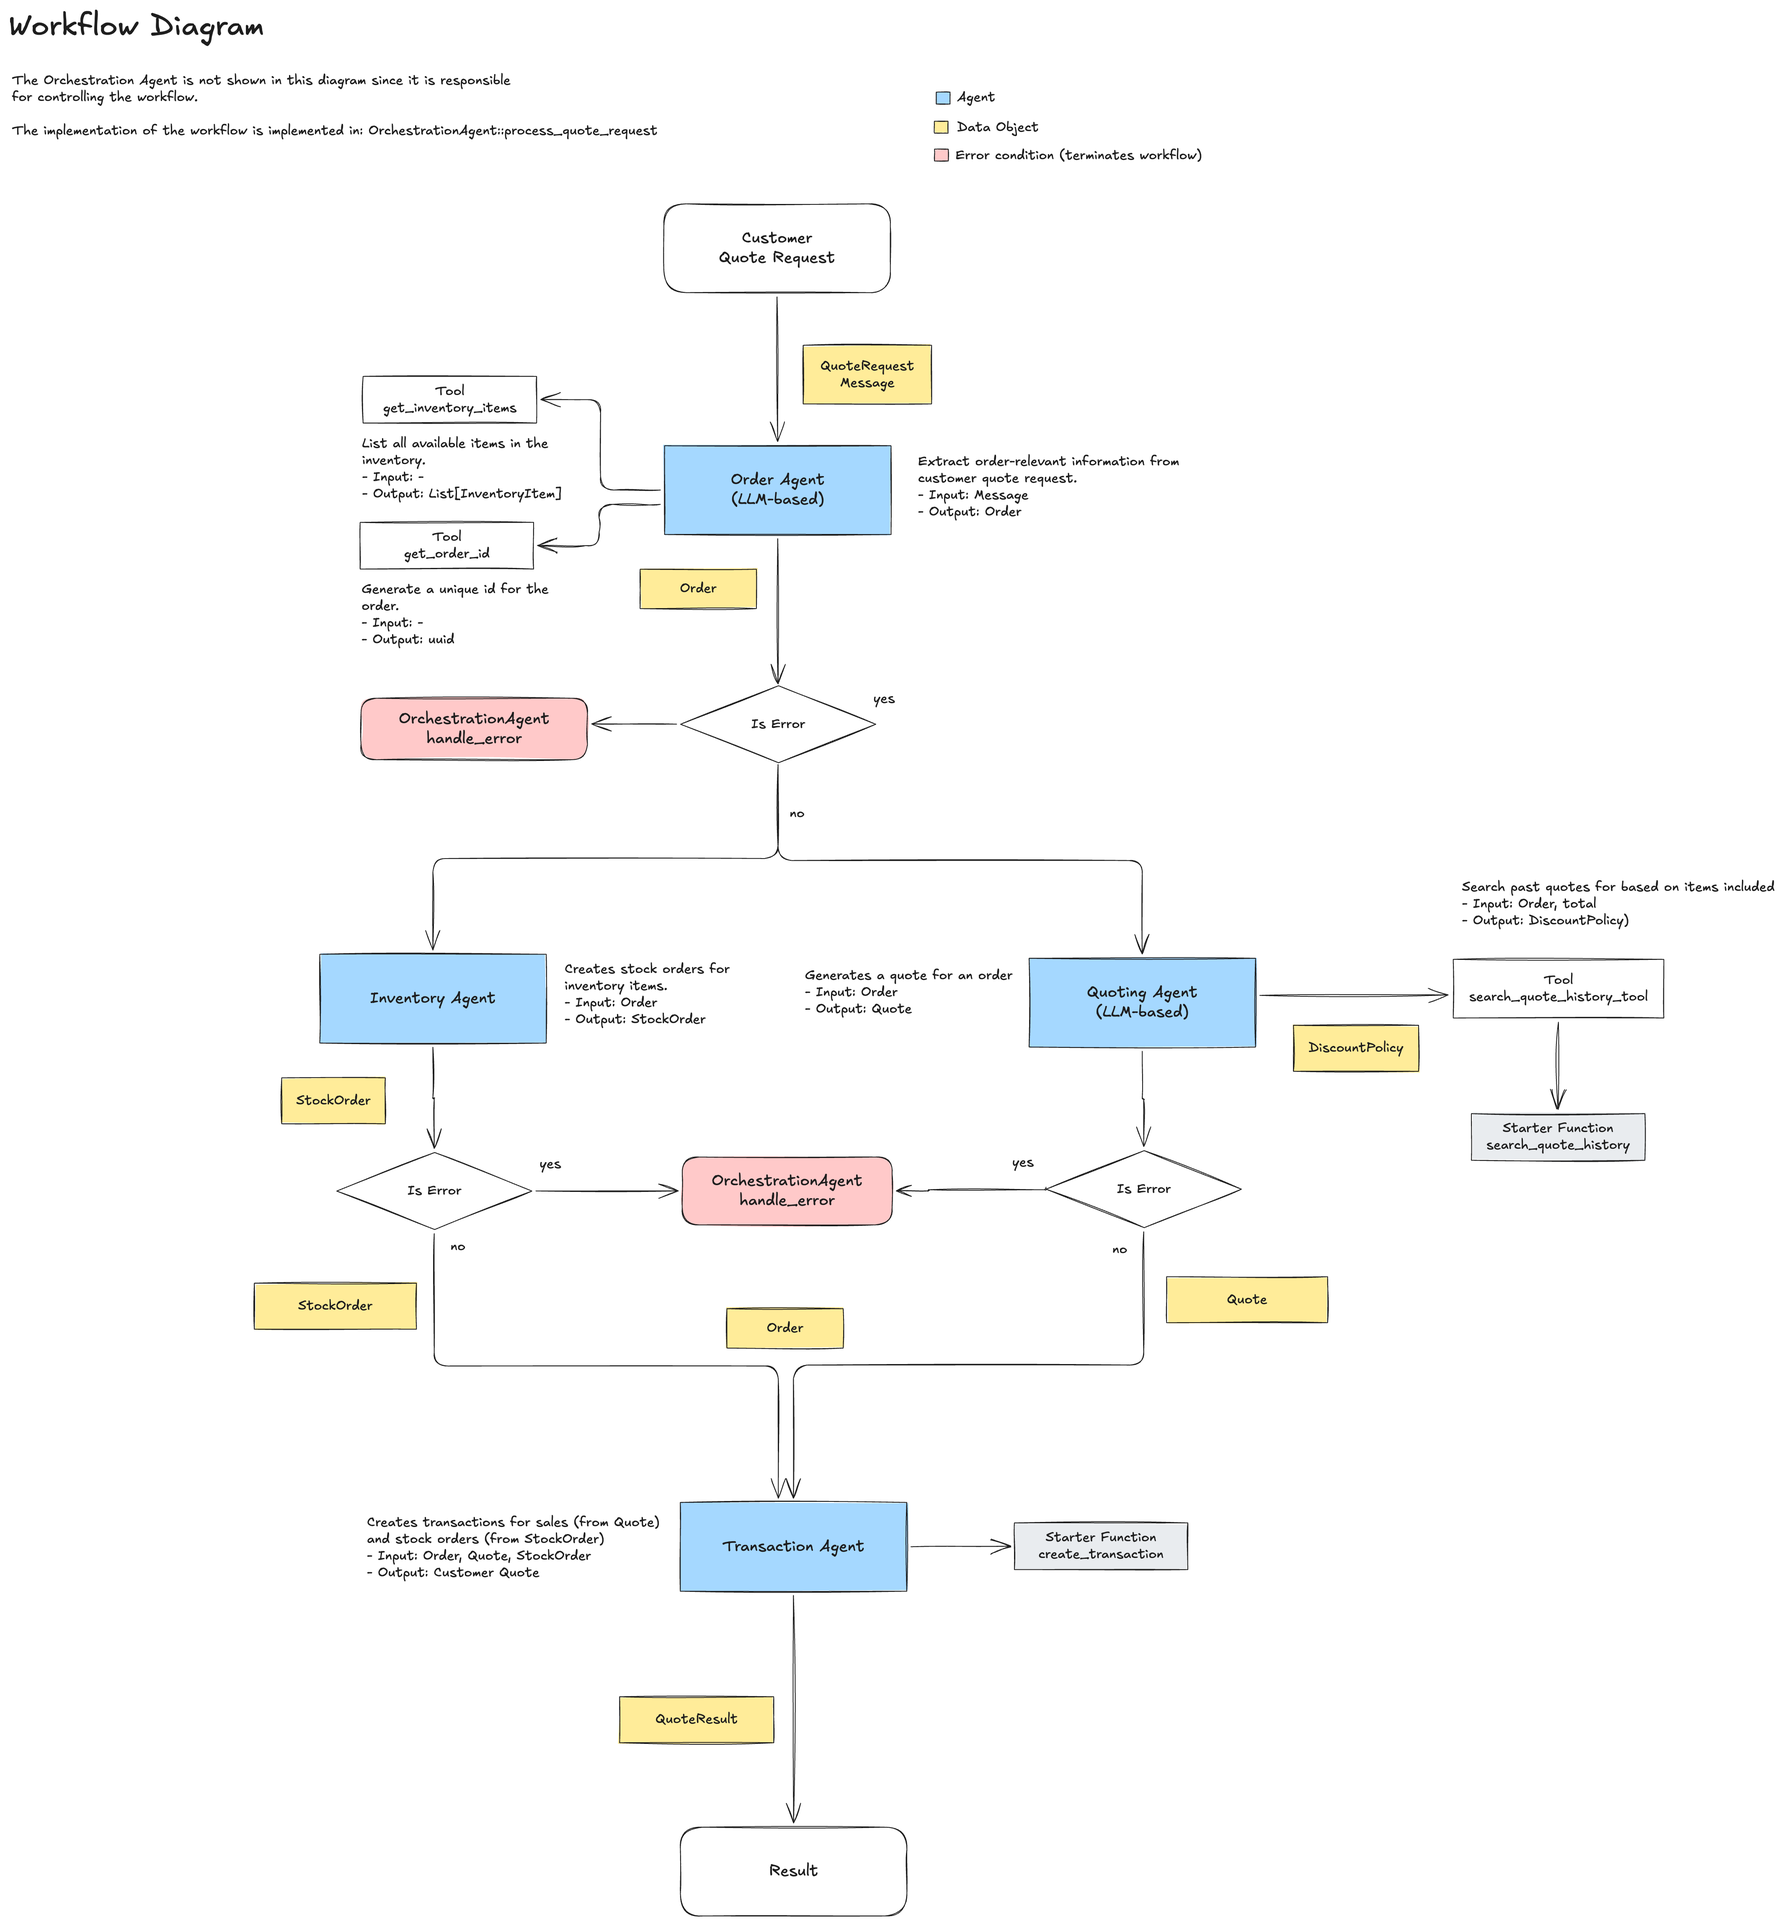
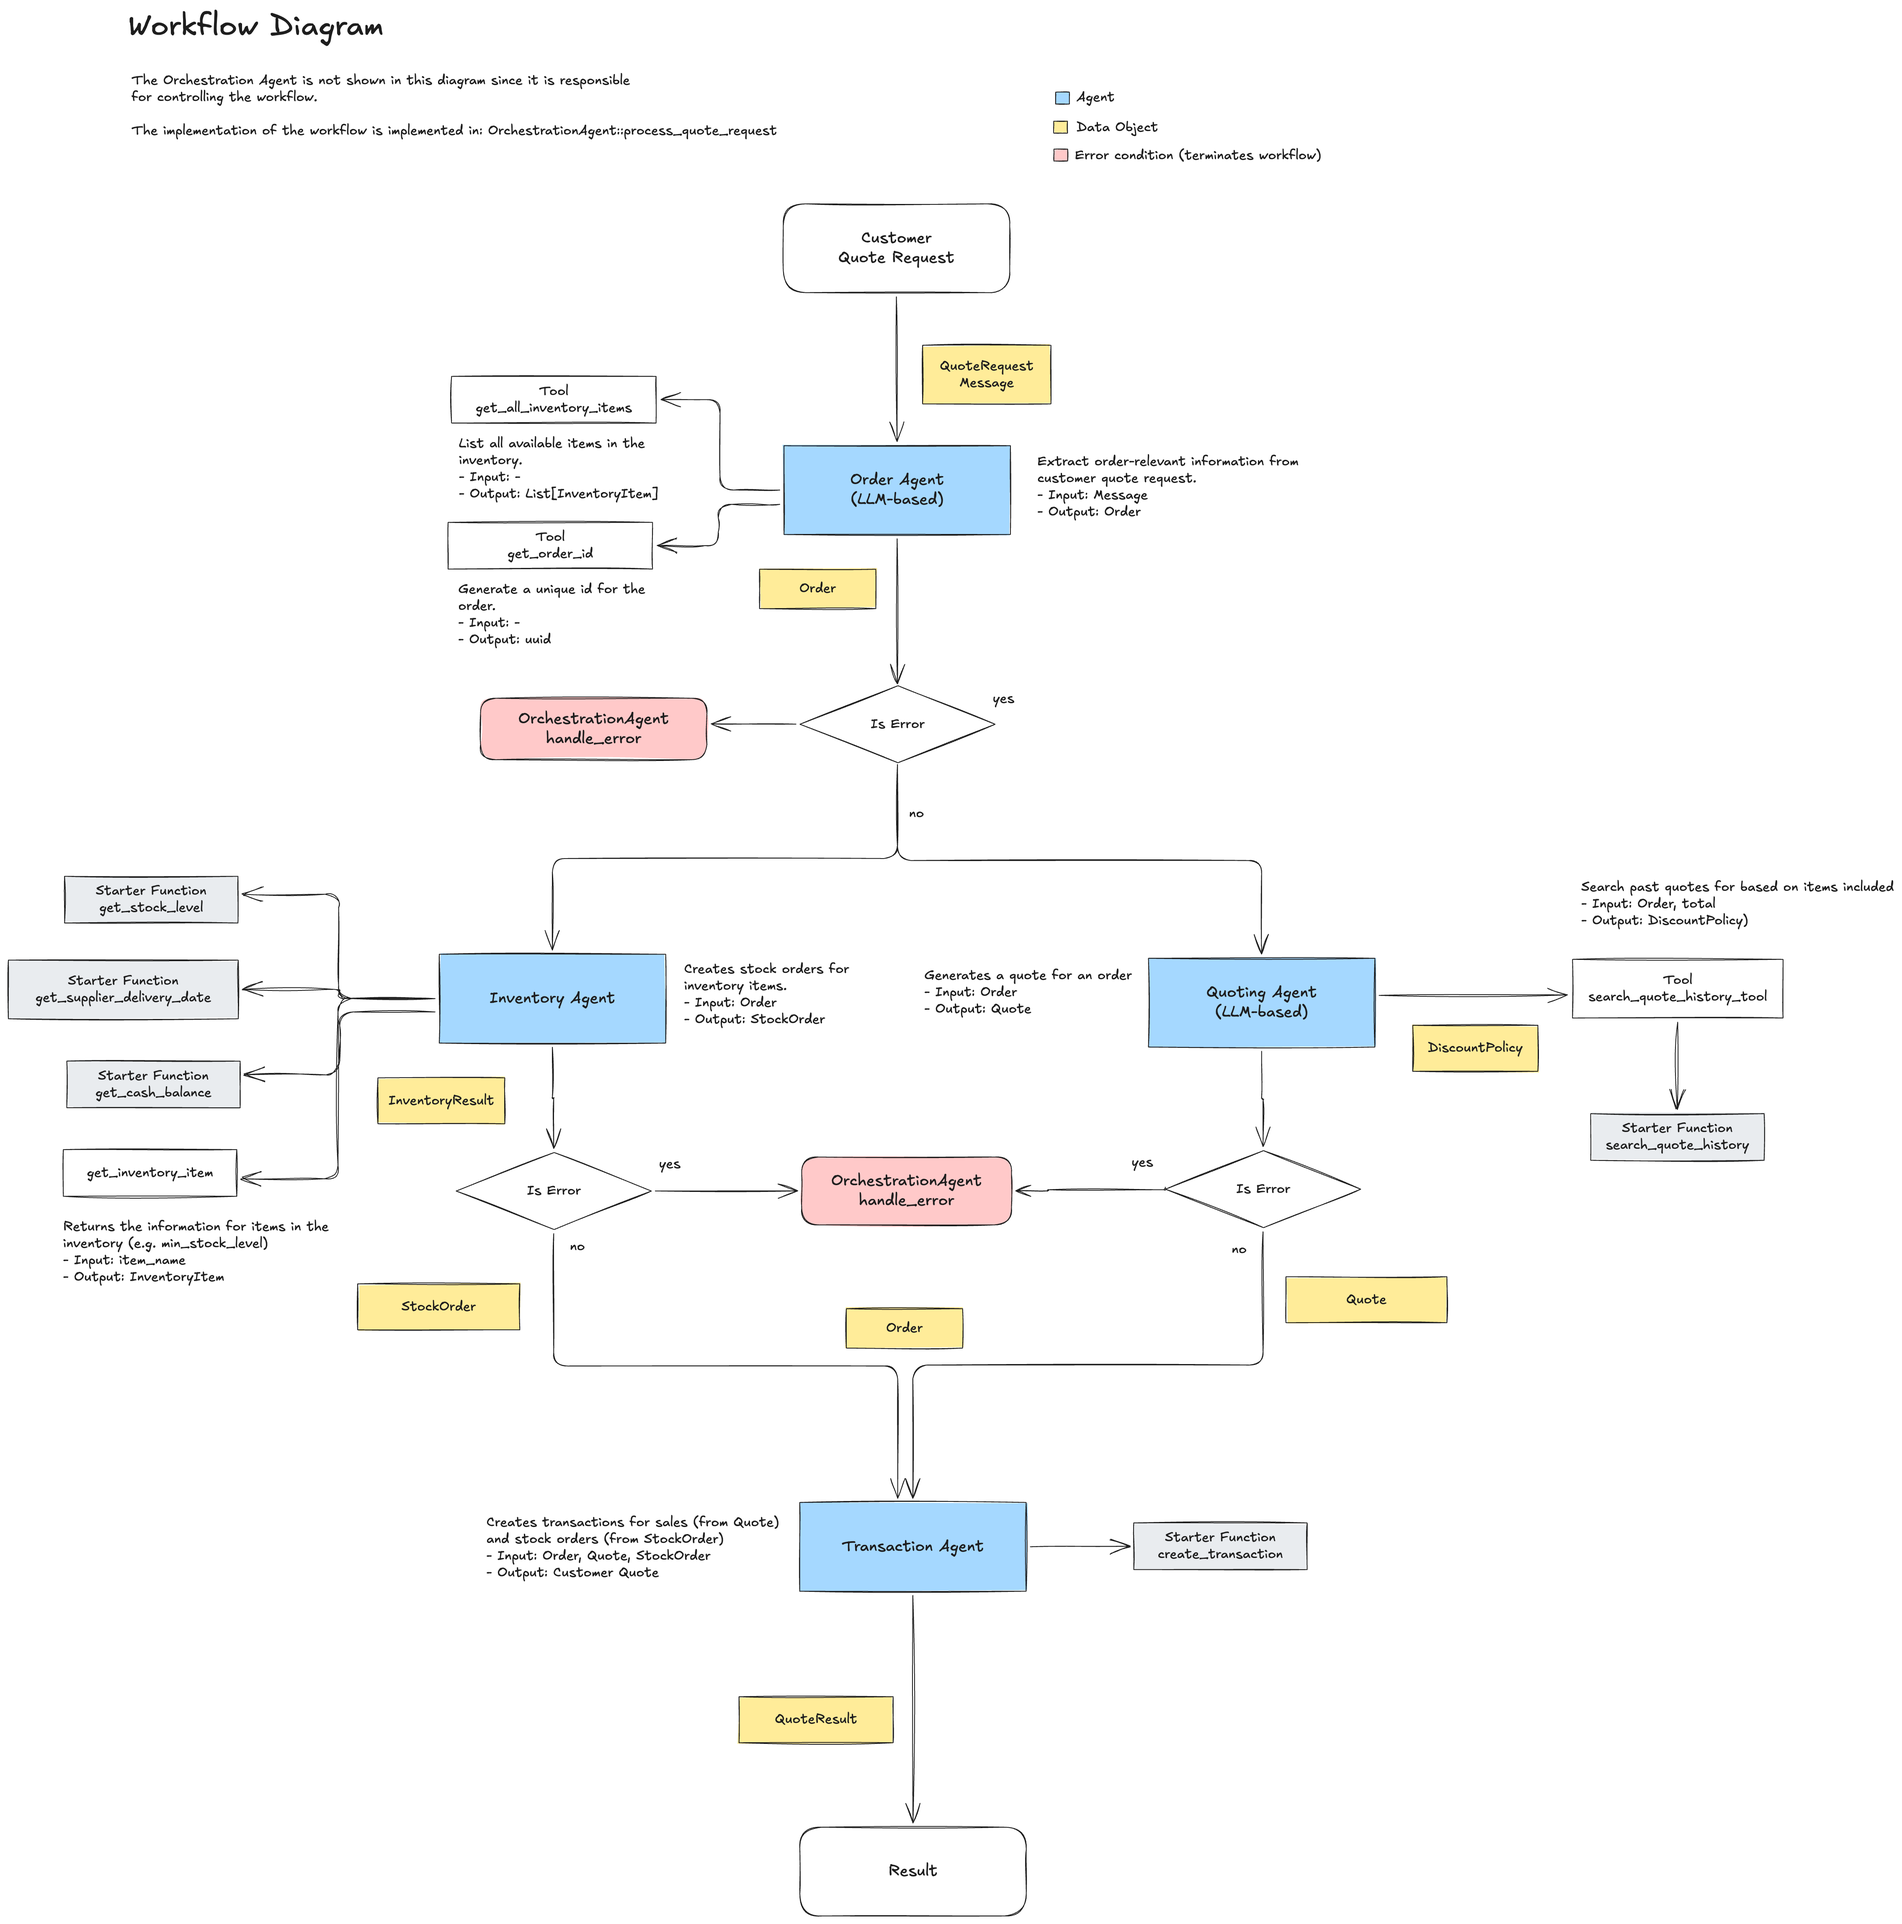
Finalized solution description.

diff --git a/Solution.md b/Solution.md
@@ -81,9 +81,12 @@ Searching for historic quotes uses the products from the current order. This is 
 
 The Inventory Agent encapsulates the fulfillment of orders and the necessary inventory management. The result is a Stock Order, which contains individual stock order items that need to be purchased to complete the order.
 
-This Agent does not use an LLM since the code for creating the Stock Order is deterministic. Mapping the products is already done by the Order Agent and the Inventory Agent therefore already receives a list of products that are matched by the inventory.
+This agent can be run in two different modes:
 
-We assume that the deliver from the inventory to the customer will take 2 days. Therefore, the expected delivery data for the re-orders in -2 days relative to the customer order date.
+-   `InventoryAgent.process_order_direct`: This implements the core logic for managing the inventory (i.e. creating stock orders) in Python code. The logic is quite straightforward but helped to formulate the rules for how the inventory is managed and how to handle exceptional conditions.
+-   `InventoryAgent.process_order_llm`: This method uses an LLM with function calling to process the order according to the rules. Two separate versions of the system prompt have been created. The first one defines the process steps in the prompt. The second one uses the ReAct pattern and requests the LLM to come up with a plan that achieves the stated goal.
+
+The LLM version proofed to be surprisingly effective, with a powerful model like `gpt-4o`. Given that the direct-implementation was done prior, the prompt benefited from the deeper understanding of the necessary logic. For a smaller model like `gpt-4o-mini` several problems have been spotted but these have not been investigated in more detail for now.
 
 ##### Interfaces
 
@@ -102,6 +105,22 @@ This agent does not use an LLM since all the data is provided by typed data obje
 -   Input Schema: Transaction
 -   Output Schema: TransactionResult
 -   Tools: none
+
+## 3 Testing
+
+The workflow has been tested several times with different configurations:
+
+1. Model Type: gpt-4o, gpt-4o-mini
+2. Direct or LLM-based implementation of Inventory Management
+
+Two result files have been created to capture the complete processing output for the sample quote requests as specified in the project rubric\_
+
+-   [`test_results_direct.csv`](./test_results_direct.csv): using the direct implementation (Python) for the Inventory Agent.
+-   [`test_results_direct.csv`](./test_results_llm.csv): Using the LLM-based implementation of the Inventory Agent.
+
+Both tests have been run with `gpt-4o` as the model for all individual agents. A test has been done with `gpt-4o-mini`, but this showed several problems in terms of the result quality and reliability.
+
+While `gpt-4o` is able to extract the order details from the customer quote request very reliably, ``gpt-4o-mini` fails for a substantial percentage of cases (> 25%), while not really bringing big improvements to latency.
 
 ## 3. Improvements & Opportunities
 
@@ -140,9 +159,9 @@ A more mature system would likely provide a more restricted mapping to ensure th
 
 ## Final Thoughts
 
-This project assignment was really insightful and triggered a lot of questions about how to build reliable and scalable solutions for real-world use cases.
+This project assignment was really insightful and triggered a lot of questions about how to build reliable and scalable solutions for real-world use cases. It also helped me to refine my view of how to design and implement agentic systems. With more then 20 year of experience in software design, I might have to "unlearn" some of my best practices for solving problems with agents.
 
-One key consideration is to decide when to use an LLM-based agent versus coding the behavior directly (in Python). In some cases (Order processing, Quoting), the benefits of an LLM are clear given the ability of the LLM to process unstructured data and reason. In other cases (e.g. Inventory and transaction processing), using traditional development is a good choice if the interface is clear and the data is well structured.
+One key consideration is to decide when to use an LLM-based agent versus coding the behavior directly (in Python). In some cases (Order processing, Quoting), the benefits of an LLM are clear given the ability of the LLM to process unstructured data and reason. In other cases (e.g. Inventory and transaction processing), using traditional development is a good choice if the interface is clear and the data is well structured. While the results of the LLM-based Inventory Agent are impressive, it benefited greatly from my experience that I gained during implementing the logic myself. Still, I will investigate deeper into the LLM-based approach since this has shown very successful.
 
 The current implementation of the system is definitely not ready for production since it misses critical functionality and would not meet the standards of business experts in the paper industry:
 
